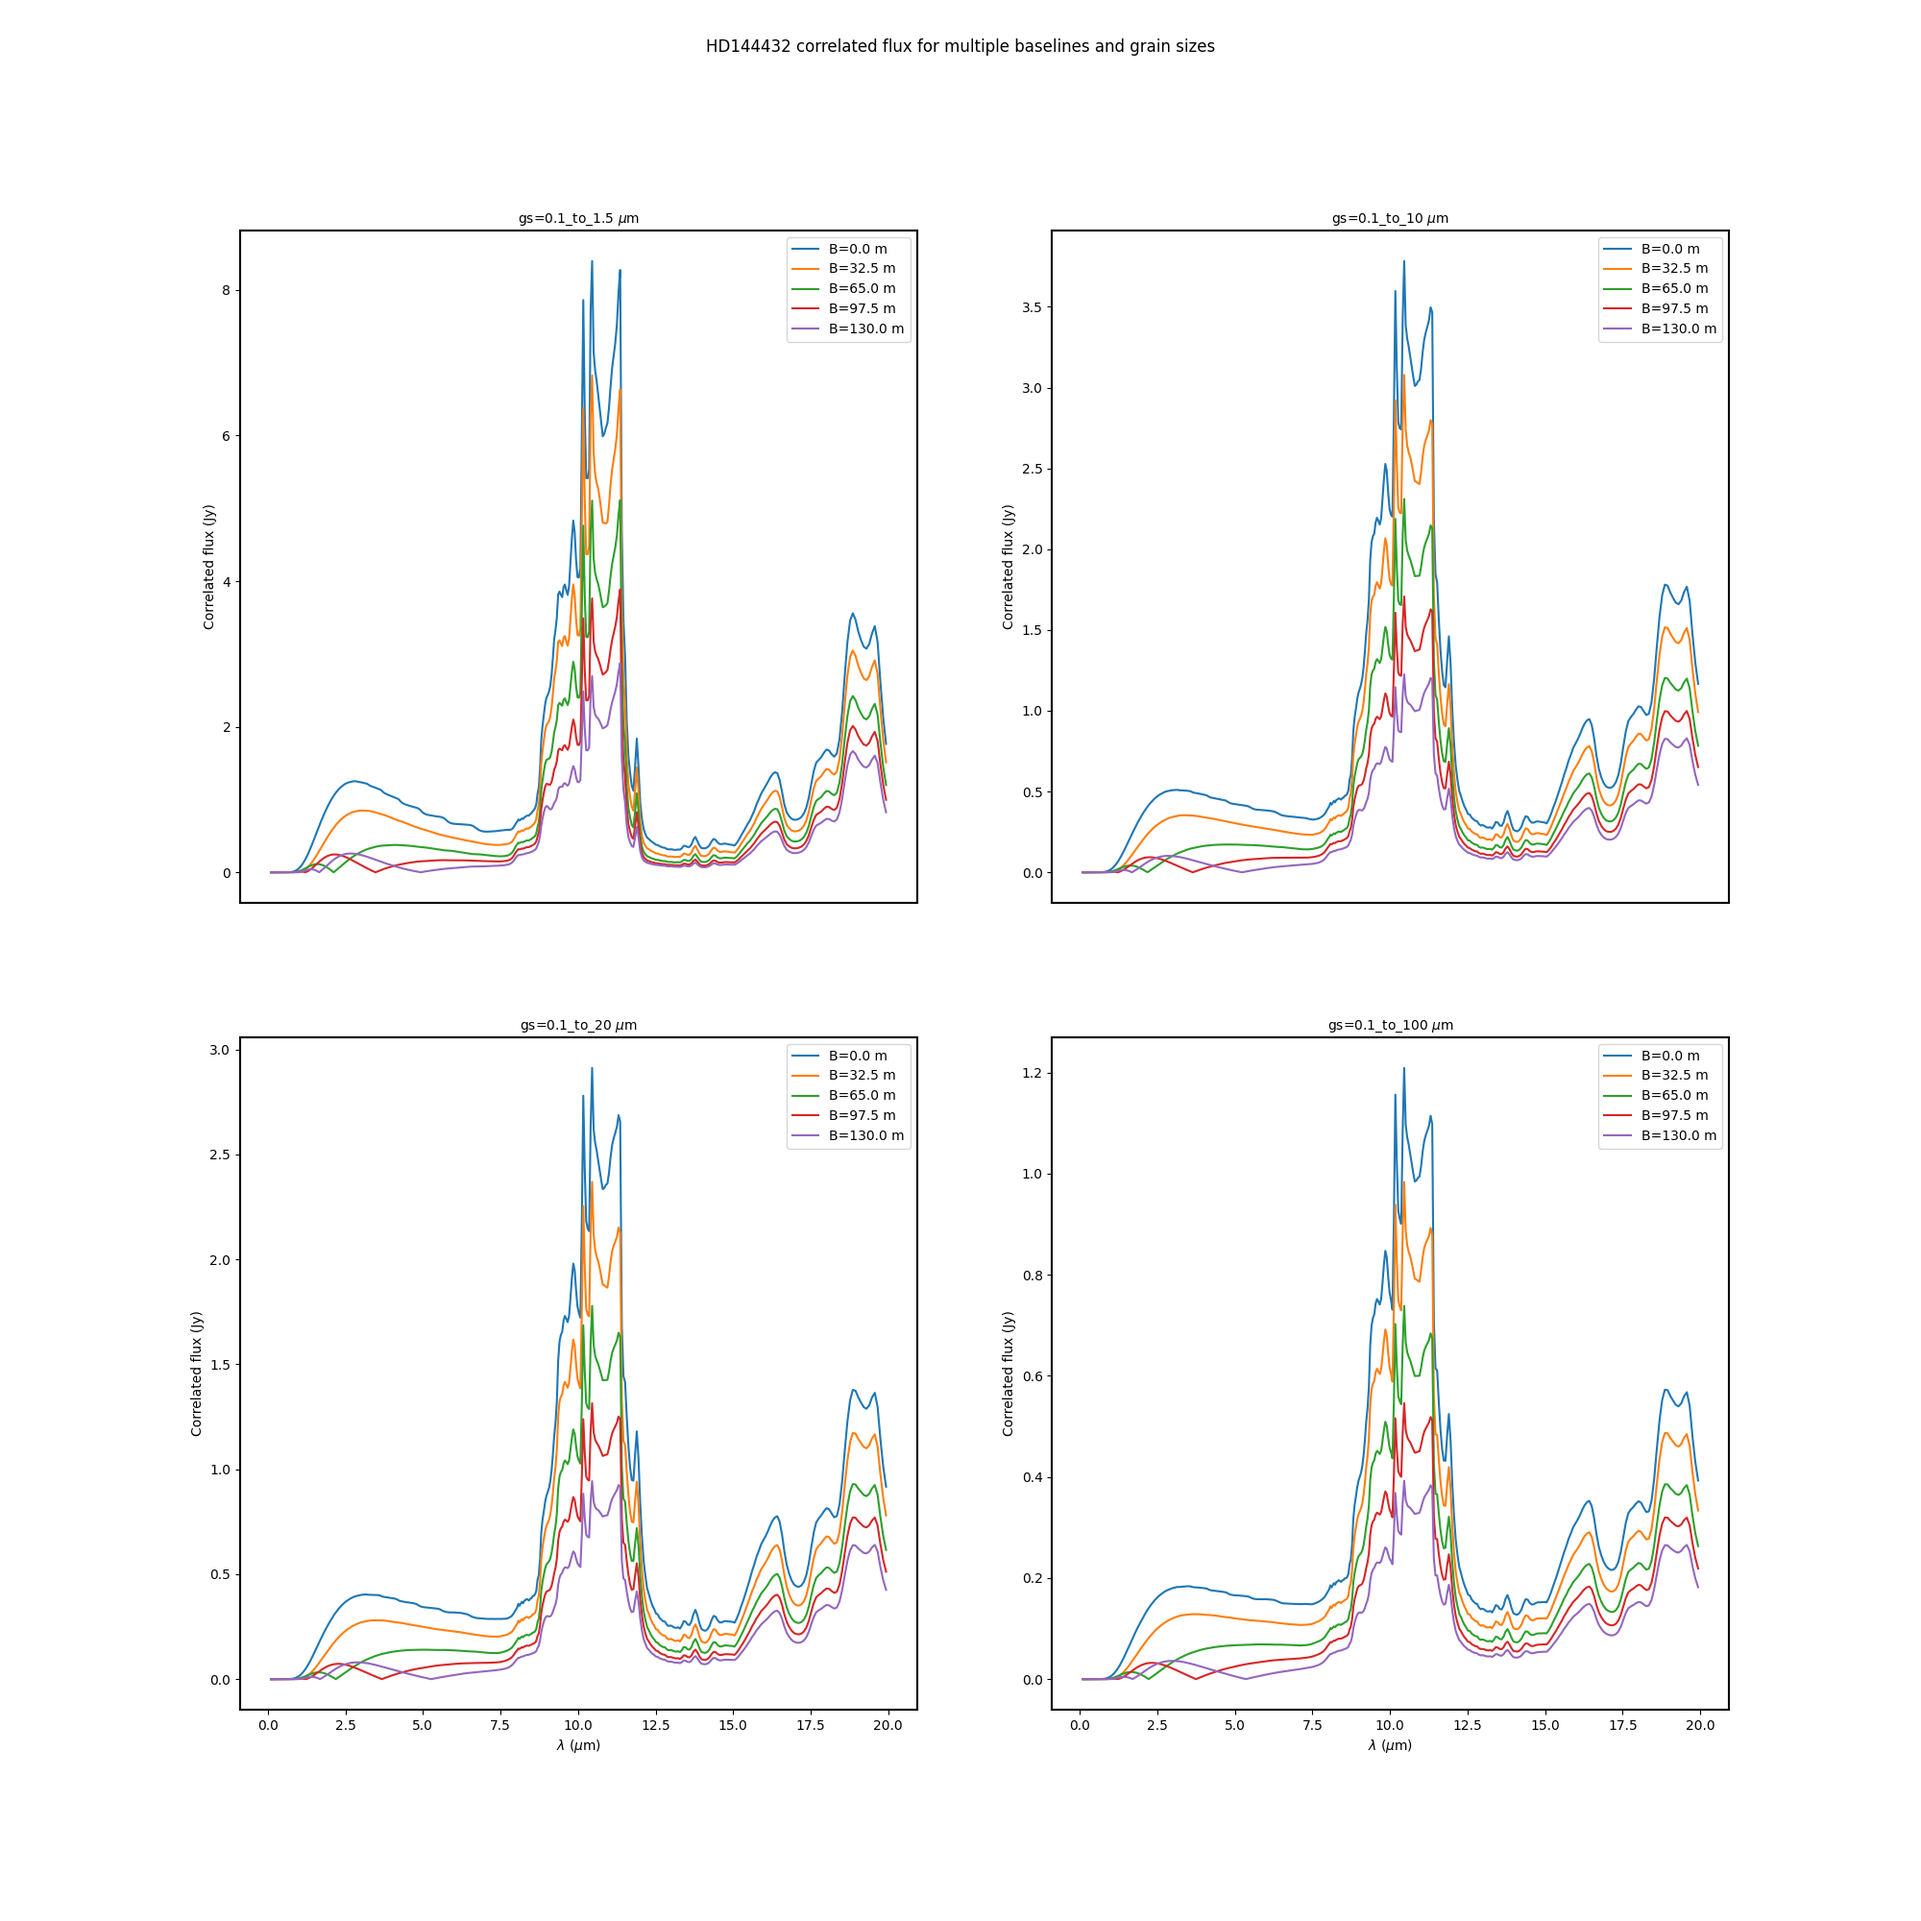
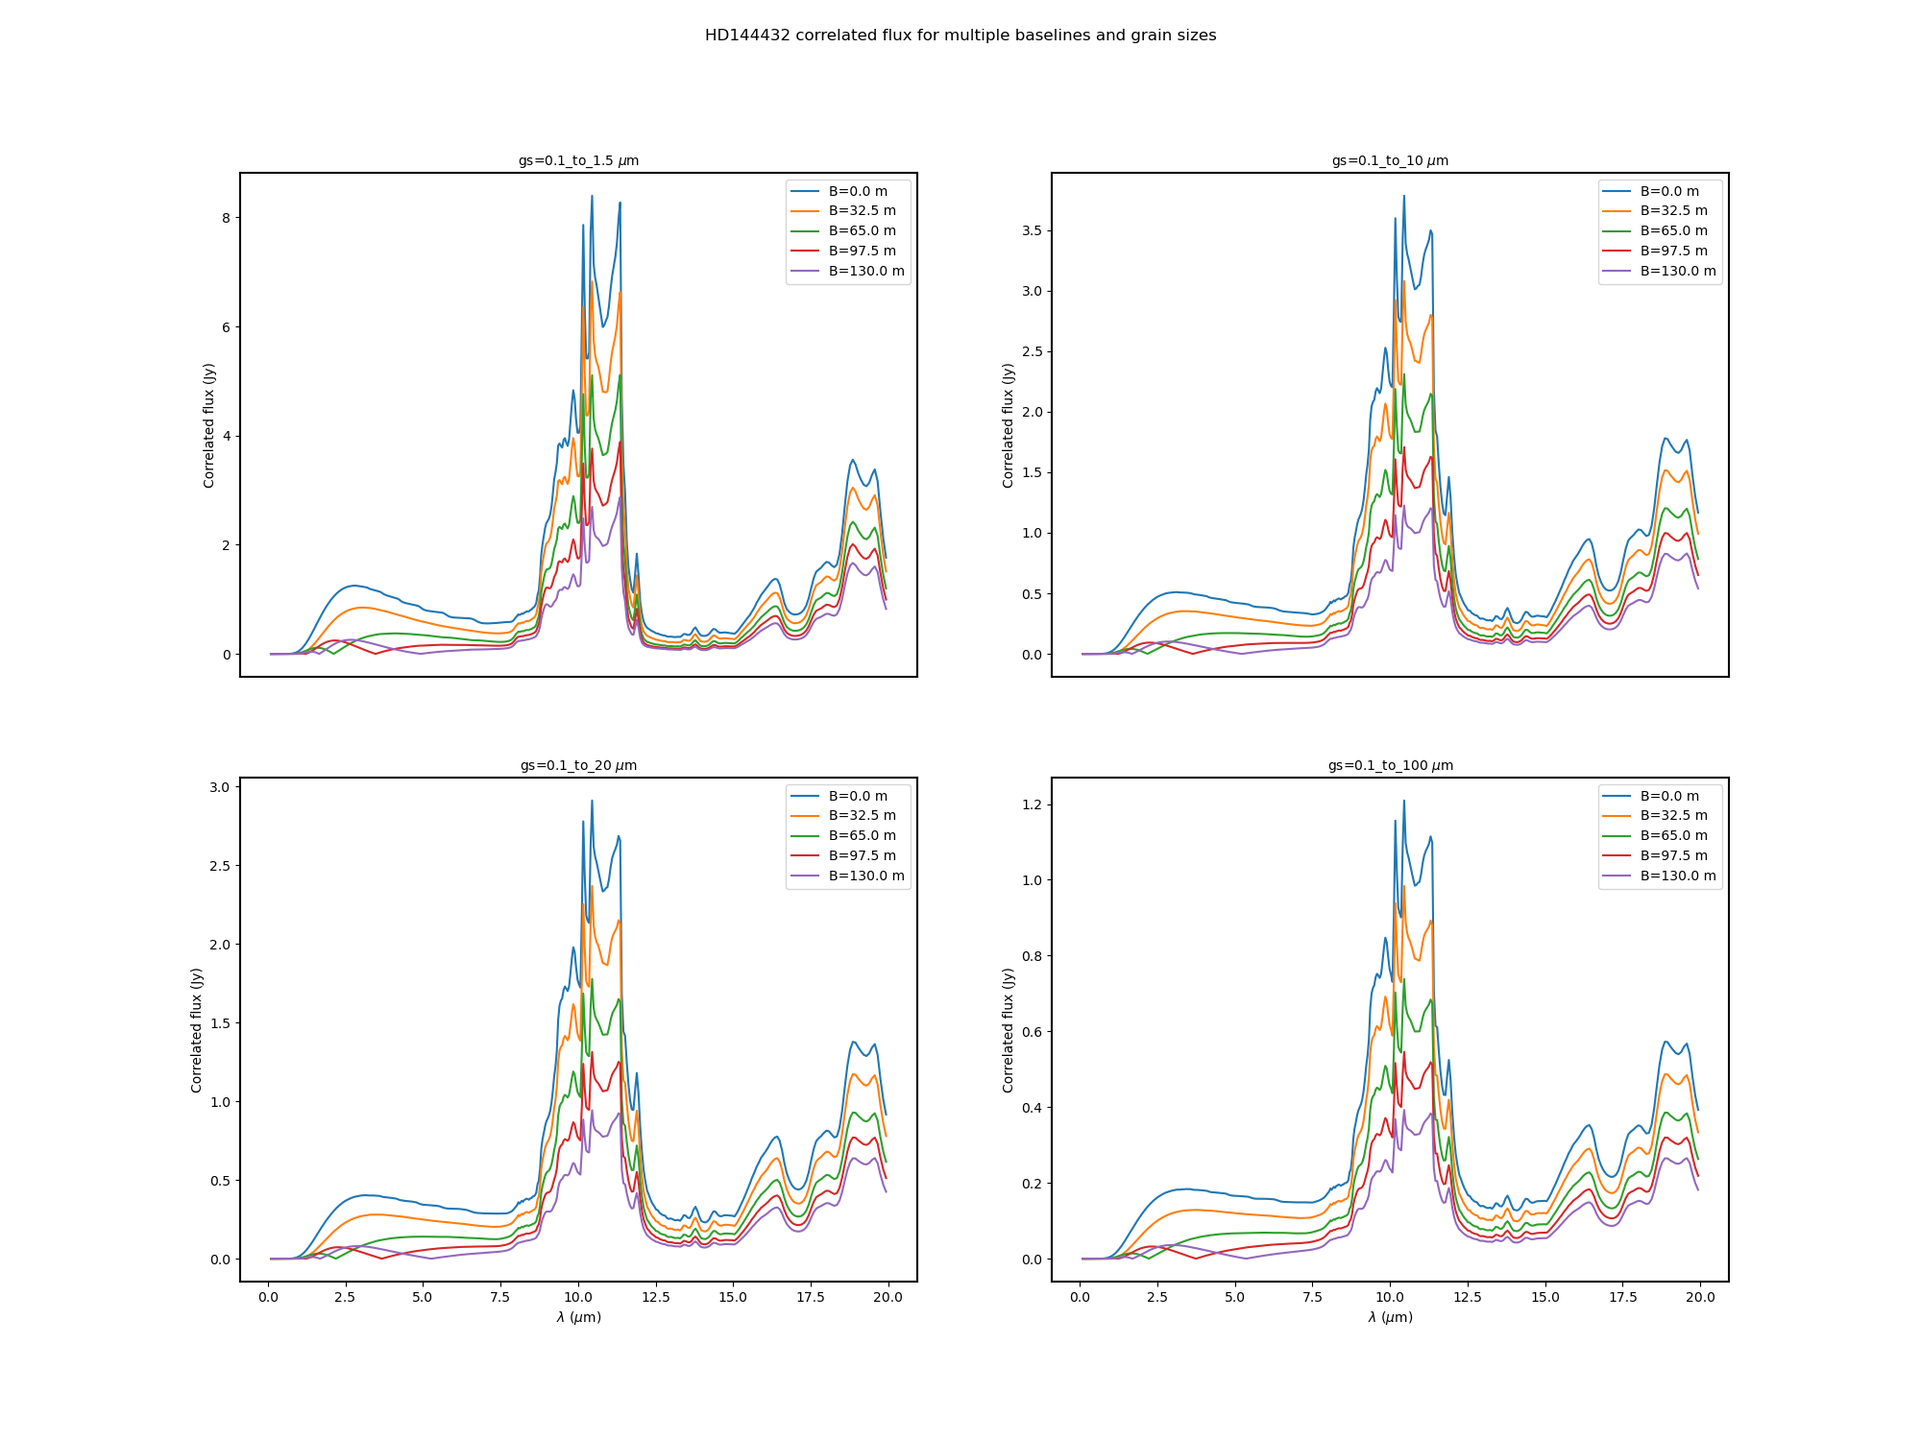
HD144432 non-amorphous spectra made

diff --git a/recreate_spectra.py b/recreate_spectra.py
@@ -21,46 +21,25 @@ from Qcurve_compare import gimme_k, gimme_l
 
 def get_paper_spectra(filename):
 	
+	"""
+	Data points from the spectra in van Boekel (2005) are obtained using the WebPlotDigitizer software. The output of the software is a csv file with 2 columns: wavelength (microns) and flux (Jy). This function obtains the column data from the file. 
+	
+	Parameters:
+	
+	filename 	  : CSV file with data from spectra data from van Boekel (2005) with 2 columns: wavelength (microns) and flux (Jy)
+	
+	Returns:
+	
+	wl 			  : 1D array of wavelengths from the spectra images in van Boekel (2005) (microns)
+	flux 		  : 1D array of flux from the spectra images in van Boekel (2005) (Jy)
+	"""
+	
 	spectrum = pd.read_csv(filename, delimiter=',', names = ['wavelength', 'flux'])
 	wl = u.Quantity(spectrum['wavelength'].to_numpy(), u.micron)
 	flux = spectrum['flux'].to_numpy() * u.Jy
 	
 	return wl, flux
-	
-	
-def hankel_transform_fast(F_map, R_arr, wl, B_arr, dist_pc):
-	
-	"""
-	Calculates the absolute correlated flux density (in Jy) using the combined flux map of all the solids. This involves finding the Fourier transform in cylindrical coordinates using the Bessel function of the first kind zeroth order (j0). It is assumed that the correlated fluxes (shape: (lsize,)) are to be plotted against the wavelengths. If, however, it is to be plotted against the baselines, then the correlated flux density (a single float value) corresponding to a specific wavelength (wl) is extracted and returned from the array (shape: (lsize,)). This can be specified with wl_array.
-	
-	Parameters: 
-	
-	F_map 		  : 2D array (shape: (NPOINT, lsize)) of the combined flux map for all solids in erg/(s Hz sr cm^2) i.e. CGS units (float)
-	R_arr         : 1D array of radii in AU obtained from the temperature array in GGchem output based on the power law model (float)
-	lamda         : 1D array of wavelengths (shape: (lsize,)) of the solid in microns (float)
-	wl 			  : A single wavelength (in micron) where the correlated flux is required if the fluxes are plot against baseline (float). It is used only if wl_array = False
-	B 			  : The interferometric baseline value in m (float)
-	wl_array 	  : If True, the returned correlated fluxes is an array of shape (lsize,) to be plotted against the wavelengths. If False, the correlated flux for a single wavelength value is returned to be plot against the baselines (Boolean)
-	
-	Returns:
-	
-	inter_flux_abs: The absolute correlated flux density in Jy. If wl_array = True, a float array of shape (lsize,) is returned, else a single float value is returned
-	"""
-	
-	rad_arr = r_to_rad(R_arr, dist_pc) 						 											# Converting radius (AU) to arcseconds to radians	
-	rad_arr = rad_arr[np.newaxis]
-	rad_arr = rad_arr.T 																		# Shape: (NPOINT, 1)
-	rad_arr = rad_arr.to('', equivalencies=u.dimensionless_angles()) 
-	
-	# Finding the Bessel function of the first kind, zeroth order
-	bessel = j0(2.0 * np.pi * rad_arr * B_arr / (wl.to(u.m)))           							# Shape: (NPOINT, lsize)
-	
-	# Calculating the absolute interferometric flux
-	inter_flux = 2.0 * np.pi * np.trapz(rad_arr * bessel * F_map, x = rad_arr, axis = 0)   		# Shape: (lsize,)
-	inter_flux_abs = np.abs(inter_flux) * u.rad**2
-	inter_flux_abs = inter_flux_abs.to(u.Jy, equivalencies = u.dimensionless_angles())
-	
-	return inter_flux_abs
+
 	
 	
 def main():
@@ -149,6 +128,8 @@ def main():
 	# top5_solids = np.setdiff1d(top5_solids, not_there)
 	opcurves_available = ['Fe2SiO4', 'Fe3O4', 'Fe', 'FeS', 'Mg2SiO4', 'MgSiO3', 'Ni', 'SiO']
 	top5_solids = list(set(top5_solids).intersection(opcurves_available))
+	amorphous_solids = ['MgOlivine', 'MgPyroxene']
+	top5_solids = top5_solids + amorphous_solids
 	
 	# Calculating the surface density
 	molwt = molecular_weight(top5_solids)
@@ -156,7 +137,7 @@ def main():
 	
 	# Defining a nested dictionary where each dictionary within is named after a mineral and each such dictionary consists of grain size ranges as keys with their opacities as values
 	kdict = {outer_k: {inner_k: None for inner_k in gs_ranges} for outer_k in top5_solids}
-	lamda = gimme_l('Qcurve_inputs_mult_GS/0.1_to_1.5/Q_Fe2SiO4_rv0.1-1.5_fmax0.7.dat')
+	lamda = gimme_l('Qcurve_inputs_mult_GS/0.1_to_1.5/Q_Mg2SiO4_rv0.1-1.5_fmax0.7.dat')         # Since wavelength values for all solids are the same, just picking one file
 	
 	for path in paths:	
 		
@@ -203,7 +184,7 @@ def main():
 	plt.show()
 	
 	# Plotting the correlated flux density for multiple baselines against wavelengths
-	fig, axs = plt.subplots(2, 2, figsize=(20, 20))
+	fig, axs = plt.subplots(2, 2, figsize=(20, 15))
 	axes = [axs[0, 0], axs[0, 1], axs[1,0], axs[1, 1]]
 	i = 0
 	ind = np.where(lamda <= 20 * u.micron)[0][-1]
@@ -234,7 +215,7 @@ def main():
 	
 	# Plotting correlated fluxes against baselines for multiple wavelengths and size ranges
 	inter_flux = {key: np.zeros(len(B)) * u.Jy for key in gs_ranges}
-	fig, axs = plt.subplots(2, 2, figsize=(20, 20))
+	fig, axs = plt.subplots(2, 2, figsize=(20, 15))
 	axes = [axs[0, 0], axs[0, 1], axs[1,0], axs[1, 1]]
 	ind = np.where(lamda <= 20 * u.micron)[0][-1]
 	i = 0
@@ -255,8 +236,8 @@ def main():
 	# Hide x labels and tick labels for top plots and y ticks for right plots.
 	# ~ for ax in axs.flat:
 	    # ~ ax.label_outer()	
-	axs[0,0].get_xaxis().set_visible(False)
-	axs[0,1].get_xaxis().set_visible(False)
+	# ~ axs[0,0].get_xaxis().set_visible(False)
+	# ~ axs[0,1].get_xaxis().set_visible(False)
              
 	fig.suptitle(r'{0} correlated flux for multiple wavelengths and grain sizes'.format(disk))
 	plt.savefig(folder + 'Correlated_flux_multwl_multgs.png')

diff --git a/spectra.py b/spectra.py
@@ -200,7 +200,7 @@ def get_l_and_k(opfile, dens, gs, lmin, lmax, lsize):
 	lamda, Q = slice_lQ(lamda, Q, lmin, lmax, lsize)
 	
 	# Obtaining k_abs from Q_abs
-	kappa = 3 * Q / (4 * gs * dens)
+	kappa = 3 * Q / (4 * gs.to(u.cm) * dens)
 	
 	return mineral, rv, fmax, lamda, kappa
 
@@ -347,18 +347,6 @@ def calculate_spectra(F_map, R_arr, Rmin, Rmax, dist_pc):
 	
 	# Calculating the integrated flux using the Trapezoidal numerical integration
 	summ = np.trapz(2 * np.pi * rad_arr * F_map_req, x = rad_arr, axis = 0)
-	
-	# delr = (rad_arr[Rmin_id+1: Rmax_id+1, :] - rad_arr[Rmin_id: Rmax_id, :])	
-	# f1 = rad_arr[Rmin_id: Rmax_id, :] * tau[Rmin_id: Rmax_id, :] * I[Rmin_id: Rmax_id, :] * 2 * np.pi * delr * 0.5
-	# f2 = rad_arr[Rmin_id+1: Rmax_id+1, :] * tau[Rmin_id+1: Rmax_id+1, :] * I[Rmin_id+1: Rmax_id+1, :] * 2 * np.pi * delr * 0.5
-	
-	# Using same formula as Hankel transform one
-	# f1 = rad_arr[Rmin_id: Rmax_id, :] * F_map[Rmin_id: Rmax_id, :] * 2 * np.pi * delr * 0.5
-	# f2 = rad_arr[Rmin_id+1: Rmax_id+1, :] * F_map[Rmin_id+1: Rmax_id+1, :]  * 2 * np.pi * delr * 0.5
-	# f1, f2 shape: (NPOINT - 1, lsize)
-	
-	# temp = (f1 + f2)
-	# summ = temp.sum(axis=0)       # summ shape: (lsize, 1)
 	summ = summ.to(u.Jy, equivalencies = u.dimensionless_angles())
 
 	return summ

diff --git a/main.py b/main.py
@@ -71,10 +71,9 @@ def main():
 	lmin = 0.0 * u.micron 						  			# Lower limit of wavelength (microns)
 	lmax = 20.0 * u.micron						  			# Upper limit of wavelength (microns)
 	lsize = 450 								  			# Number of wavelength (and kappa) points 
-	Rmin = np.round(np.min(R_arr), 3) 						# Minimum radius for spectrum plotting (AU) ENSURE IT IS ONLY 2 DECIMAL PLACES LONG
-	Rmax = np.round(np.max(R_arr), 3)						# Maximum radius for spectrum plotting (AU) ENSURE IT IS ONLY 2 DECIMAL PLACES LONG
-	dist_pc = 100 * u.pc  			            			# Assuming a distance to the Sun-like star in parsec
-	gs = 0.1E-4 * u.cm                            			# Grain radius (cm)
+	Rmin = np.round(np.min(R_arr), 3) 						# Minimum radius for spectrum plotting (AU) ENSURE IT IS ONLY 3 DECIMAL PLACES LONG
+	Rmax = np.round(np.max(R_arr), 3)						# Maximum radius for spectrum plotting (AU) ENSURE IT IS ONLY 3 DECIMAL PLACES LONG
+	gs = 0.1 * u.micron                           			# Grain radius (cm)
 	wl = 5.5 * u.micron                           			# Observing wavelength (microns)
 	wl_list = [1.0, 2.0, 3.2, 5.5, 10.0, 12.0] * u.micron	# 1D list of wavelengths to plot correlated flux against baselines (microns)
 	B = np.arange(0.0, 130.0, 2.0) * u.m          			# 1D array of baselines (m)

diff --git a/no_thoughts_just_plots.py b/no_thoughts_just_plots.py
@@ -19,20 +19,12 @@ def Qcurve_plotter(lamda, kappa, mineral, rv, fmax, folder):
 	mineral      : Name of the solid whose Qcurve is plotted, used for plot name (string)
 	rv           : Grain radius of the solid in microns, used for plot name (float)
 	fmax         : Maximum emptiness fraction of the solid grains according to the DHS theory (float)
-	"""
-	
-	# Defining the names of the mineral for plot formatting. If the materials are amorphous (i.e. olivine or pyroxene), latex_name will not work and therefore their names in the plots are specifically defined
-	if mineral == 'MgOlivine':
-		fancy = 'MgOlivine'
-	elif mineral == 'MgPyroxene':
-		fancy = 'MgPyroxene'
-	else:
-		fancy = latex_name(mineral)		
+	"""		
 		
 	plt.plot(lamda, kappa)
 	plt.xlabel(r'$\lambda$ ($\mu$m)')
 	plt.ylabel(r'$\kappa_{abs}$ ($cm^2/g$)')
-	plt.title(r"Q-curve for {0}, r = {1}, $f_{{max}}$ = {2}".format(fancy, rv, fmax))
+	plt.title(r"Q-curve for {0}, r = {1}, $f_{{max}}$ = {2}".format(latex_name(mineral), rv, fmax))
 	plt.savefig(folder + "Qcurve_{0}_r{1}_f{2}.png".format(mineral, rv, fmax), bbox_inches = 'tight')
 	plt.show()
 	

diff --git a/fancy_name.py b/fancy_name.py
@@ -9,13 +9,19 @@ def latex_name(solid):
 	
 	Parameters:
 	
-	solids         : The formula of the condensate (string)
+	solid         : The formula of the condensate (string)
 	
 	Example:
 	
 	>>> latex_name('CaMgSi2O6')
 	>>> $CaMgSi_2O_6$
 	"""
+	
+	if solid == 'MgOlivine':
+		return solid
+	
+	elif solid == 'MgPyroxene':
+		return solid
 	
 	f = Formula(solid)
 	fancy = "$" + f.latex + "$"
